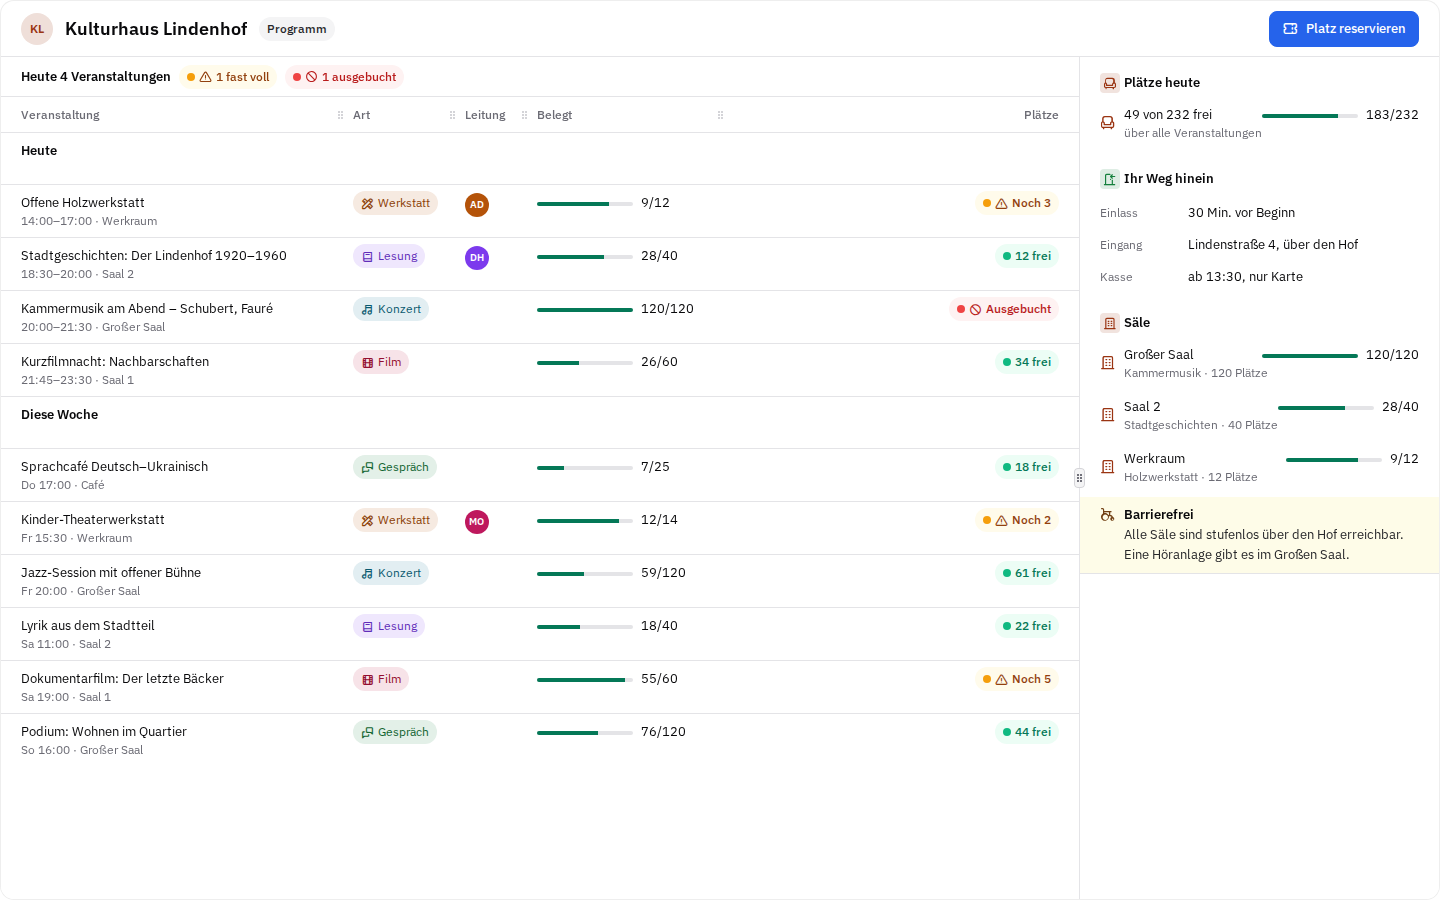
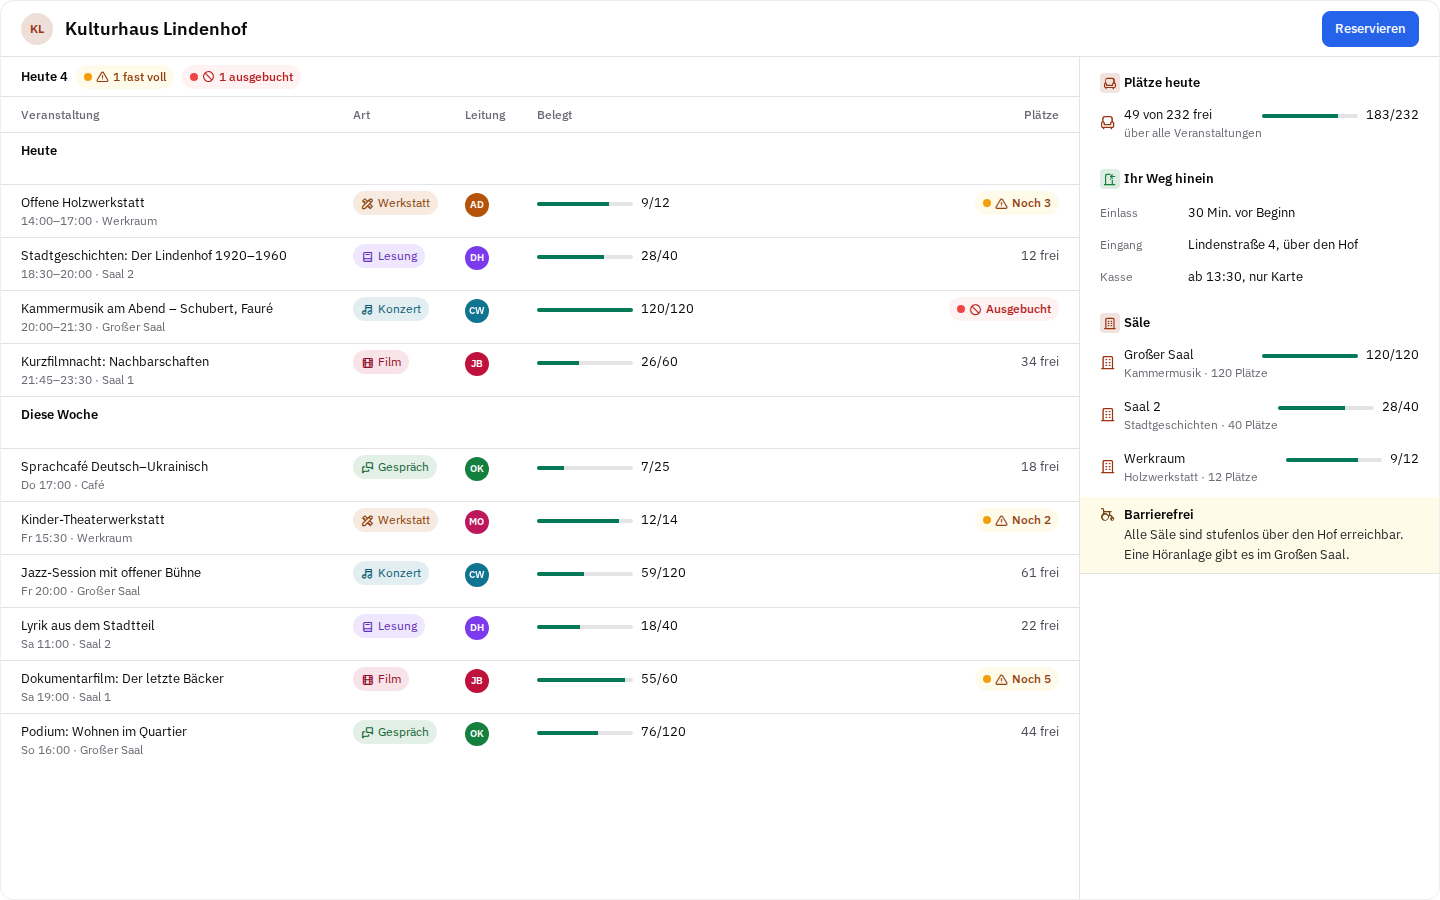
feat(ui): a page to read keeps fixed columns without grips, and the public page recipe marks every row and chips only exceptions
Width gains fixed: a Pane or a table column keeps its default width without a
grip. The phone form of a table heads its groups with plain words instead of a
tinted band. The public page recipe gives every event its host (every phone row
leads with a mark), shows seats as a chip only when booked out or almost full,
keeps the brand and its task in one phone row, and fills the kiosk side column
with what comes next.

diff --git a/packages/ui/skills/k2b-ui/recipes/public-page.tsx b/packages/ui/skills/k2b-ui/recipes/public-page.tsx
@@ -23,7 +23,7 @@ import {
   Text,
   Workspace,
 } from "@k2b/ui/v2";
-import { Show } from "solid-js";
+import { For, Show } from "solid-js";
 
 const brand = { name: "Kulturhaus Lindenhof", color: "#9a3412" };
 const kinds = {
@@ -35,7 +35,7 @@ const kinds = {
 } as const;
 type Kind = keyof typeof kinds;
 type Seats = { free: number; of: number };
-type Event = { title: string; kind: Kind; time: string; room: string; seats: Seats; host?: { name: string; color: string } };
+type Event = { title: string; kind: Kind; time: string; room: string; seats: Seats; host: { name: string; color: string } };
 
 const today: Event[] = [
   {
@@ -60,11 +60,26 @@ const today: Event[] = [
     time: "20:00–21:30",
     room: "Großer Saal",
     seats: { free: 0, of: 120 },
+    host: { name: "Clara Weiß", color: "#0e7490" },
   },
-  { title: "Kurzfilmnacht: Nachbarschaften", kind: "film", time: "21:45–23:30", room: "Saal 1", seats: { free: 34, of: 60 } },
+  {
+    title: "Kurzfilmnacht: Nachbarschaften",
+    kind: "film",
+    time: "21:45–23:30",
+    room: "Saal 1",
+    seats: { free: 34, of: 60 },
+    host: { name: "Jonas Becker", color: "#be123c" },
+  },
 ];
 const week: Event[] = [
-  { title: "Sprachcafé Deutsch–Ukrainisch", kind: "talk", time: "Do 17:00", room: "Café", seats: { free: 18, of: 25 } },
+  {
+    title: "Sprachcafé Deutsch–Ukrainisch",
+    kind: "talk",
+    time: "Do 17:00",
+    room: "Café",
+    seats: { free: 18, of: 25 },
+    host: { name: "Olena Koval", color: "#15803d" },
+  },
   {
     title: "Kinder-Theaterwerkstatt",
     kind: "workshop",
@@ -73,15 +88,49 @@ const week: Event[] = [
     seats: { free: 2, of: 14 },
     host: { name: "Mara Okafor", color: "#be185d" },
   },
-  { title: "Jazz-Session mit offener Bühne", kind: "concert", time: "Fr 20:00", room: "Großer Saal", seats: { free: 61, of: 120 } },
-  { title: "Lyrik aus dem Stadtteil", kind: "reading", time: "Sa 11:00", room: "Saal 2", seats: { free: 22, of: 40 } },
-  { title: "Dokumentarfilm: Der letzte Bäcker", kind: "film", time: "Sa 19:00", room: "Saal 1", seats: { free: 5, of: 60 } },
-  { title: "Podium: Wohnen im Quartier", kind: "talk", time: "So 16:00", room: "Großer Saal", seats: { free: 44, of: 120 } },
+  {
+    title: "Jazz-Session mit offener Bühne",
+    kind: "concert",
+    time: "Fr 20:00",
+    room: "Großer Saal",
+    seats: { free: 61, of: 120 },
+    host: { name: "Clara Weiß", color: "#0e7490" },
+  },
+  {
+    title: "Lyrik aus dem Stadtteil",
+    kind: "reading",
+    time: "Sa 11:00",
+    room: "Saal 2",
+    seats: { free: 22, of: 40 },
+    host: { name: "Dr. Henrike Vogt", color: "#7c3aed" },
+  },
+  {
+    title: "Dokumentarfilm: Der letzte Bäcker",
+    kind: "film",
+    time: "Sa 19:00",
+    room: "Saal 1",
+    seats: { free: 5, of: 60 },
+    host: { name: "Jonas Becker", color: "#be123c" },
+  },
+  {
+    title: "Podium: Wohnen im Quartier",
+    kind: "talk",
+    time: "So 16:00",
+    room: "Großer Saal",
+    seats: { free: 44, of: 120 },
+    host: { name: "Olena Koval", color: "#15803d" },
+  },
 ];
+
+/** What the wall screen shows after what runs now. */
+const next = [...today.slice(1), ...week.slice(0, 2)];
 
 const few = (seats: Seats) => seats.free > 0 && seats.free <= Math.max(3, seats.of / 10);
 
-/** The state of the seats in colour, sign and word; never a colour alone. */
+/**
+ * The seats: a chip in colour, sign and word only for what asks to act (booked out, almost full); the usual case is
+ * quiet text, so the two exceptions stand out.
+ */
 const seatsChip = (seats: Seats) =>
   seats.free === 0 ? (
     <Chip status="bad" icon="ban">
@@ -90,7 +139,7 @@ const seatsChip = (seats: Seats) =>
   ) : few(seats) ? (
     <Chip status="warn" icon="alert-triangle">{`Noch ${seats.free}`}</Chip>
   ) : (
-    <Chip status="ok">{`${seats.free} frei`}</Chip>
+    <Text muted>{`${seats.free} frei`}</Text>
   );
 
 type Listed = Event & { day: "Heute" | "Diese Woche"; key: string };
@@ -115,12 +164,12 @@ const programme = (events: Listed[]) => (
     columns={[
       {
         title: "Veranstaltung",
-        width: { min: 240, default: 340 },
+        width: { min: 240, default: 340, fixed: true },
         cell: (event) => ({ lines: [event.title, `${event.time} · ${event.room}`] }),
       },
       {
         title: "Art",
-        width: { min: 100, default: 112 },
+        width: { min: 100, default: 112, fixed: true },
         drop: true,
         cell: (event) => (
           <Chip tag color={kinds[event.kind].color} icon={kinds[event.kind].icon}>
@@ -130,19 +179,18 @@ const programme = (events: Listed[]) => (
       },
       {
         title: "Leitung",
-        width: { min: 64, default: 72 },
+        width: { min: 64, default: 72, fixed: true },
         drop: true,
-        cell: (event) => (event.host ? <Avatar name={event.host.name} color={event.host.color} /> : ""),
+        cell: (event) => <Avatar name={event.host.name} color={event.host.color} />,
       },
       {
         title: "Belegt",
-        width: { min: 172, default: 196 },
+        width: { min: 172, default: 196, fixed: true },
         drop: true,
         cell: (event) => <Progress value={taken(event.seats)} of={event.seats.of} label={`${taken(event.seats)}/${event.seats.of}`} />,
       },
       { title: "Plätze", align: "end", cell: (event) => seatsChip(event.seats) },
     ]}
-    // k2b-ui gap: a phone row of a table lets a long title take a second line; the look asks for one line with "…".
     phone={(event) => ({
       lines: [event.title, `${event.time} · ${event.room} · ${kinds[event.kind].label}`],
       avatar: event.host,
@@ -163,13 +211,14 @@ export default function VenueProgramme(props: Props) {
     <Workspace
       head={
         <Bar
-          start={<RecordHead name={brand.name} avatar={{ name: brand.name, initials: "KL", color: brand.color }} kinds={["Programm"]} />}
+          start={<RecordHead name={brand.name} avatar={{ name: brand.name, initials: "KL", color: brand.color }} />}
           end={
             props.kiosk ? (
               <Text type="meta">Mittwoch, 26. November · aktualisiert sich jede Minute</Text>
             ) : (
-              <Button variant="primary" icon="ticket" href="#reservieren" keep>
-                Platz reservieren
+              // words only: with the brand it stays one row on a phone
+              <Button variant="primary" href="#reservieren" keep>
+                Reservieren
               </Button>
             )
           }
@@ -183,9 +232,7 @@ export default function VenueProgramme(props: Props) {
             <Bar
               start={
                 <Inline>
-                  <Text weight="strong">
-                    {props.kiosk ? "Jetzt: Offene Holzwerkstatt · Werkraum" : `Heute ${events().length} Veranstaltungen`}
-                  </Text>
+                  <Text weight="strong">{props.kiosk ? "Jetzt: Offene Holzwerkstatt · Werkraum" : `Heute ${events().length}`}</Text>
                   <Show when={almost() > 0}>
                     <Chip status="warn" icon="alert-triangle">{`${almost()} fast voll`}</Chip>
                   </Show>
@@ -209,7 +256,7 @@ export default function VenueProgramme(props: Props) {
             {programme([...listed(events(), "Heute"), ...listed(week, "Diese Woche")])}
           </Show>
         </Pane>
-        <Pane side label="Ihr Besuch" width={{ min: 280, default: 360 }}>
+        <Pane side label="Ihr Besuch" width={{ min: 280, default: 360, fixed: true }}>
           <Section icon="armchair" color={brand.color} title="Plätze heute">
             <Row
               icon="armchair"
@@ -247,6 +294,13 @@ export default function VenueProgramme(props: Props) {
               end={<Progress value={9} of={12} label="9/12" />}
             />
           </Section>
+          <Show when={props.kiosk}>
+            <Section icon="clock" color={brand.color} title="Als Nächstes">
+              <For each={next}>
+                {(event) => <Row avatar={event.host} lines={[event.title, `${event.time} · ${event.room}`]} end={seatsChip(event.seats)} />}
+              </For>
+            </Section>
+          </Show>
           <Show when={!props.kiosk}>
             <Notice tone="note" icon="wheelchair" title="Barrierefrei">
               Alle Säle sind stufenlos über den Hof erreichbar. Eine Höranlage gibt es im Großen Saal.

diff --git a/packages/ui/src/v2/content.tsx b/packages/ui/src/v2/content.tsx
@@ -20,7 +20,7 @@ import { linkOr } from "./link";
 import { Avatar, custom, Dot, Icon } from "./marks";
 import { Empty, type EmptyProps, Loading, LoadingStatus } from "./states";
 import type { TypeRole } from "./tokens";
-import type { Action, OnNavigate, Person, Status } from "./types";
+import type { Action, OnNavigate, Person, Status, Width } from "./types";
 
 // ── Text ─────────────────────────────────────────────────────────────────────────────────────────────────────────
 
@@ -454,10 +454,10 @@ export type Column<T> = {
   /** Numbers and amounts stand at the end. */
   align?: "start" | "end";
   /**
-   * A column that can be dragged wider or narrower: its minimum and default in px. The column is exactly its
-   * default wide; cut text never widens it.
+   * A column that can be dragged wider or narrower: its minimum and default in px (`fixed`: its default, no grip). The
+   * column is exactly its default wide; cut text never widens it.
    */
-  width?: { min: number; default: number };
+  width?: Width;
   /** A text column that may wrap to at most three lines; the row grows, every other cell stays on its first line. */
   wrap?: boolean;
   /** Drops away on the phone (rule 7: columns drop, they do not shrink). */
@@ -689,7 +689,7 @@ export const Table = <T,>(props: TableProps<T>) => {
                     style={firstSticky(index()) ? custom({ "--k2-sticky-left": stickyLeft() }) : undefined}
                     aria-sort={props.sort?.column === index() ? props.sort.direction : undefined}
                   >
-                    <Show when={index() > 0 && props.columns[index() - 1]?.width}>
+                    <Show when={index() > 0 && props.columns[index() - 1]?.width && !props.columns[index() - 1]!.width!.fixed}>
                       <span
                         class="k2-cgrip"
                         role="separator"

diff --git a/packages/ui/src/v2/server-markup.test.ts b/packages/ui/src/v2/server-markup.test.ts
@@ -73,3 +73,35 @@ test("a text field sends autocomplete, length, keyboard, spelling and capitals i
     /autocomplete|maxlength|inputmode|spellcheck|autocapitalize/,
   );
 });
+
+// A page to read, not to arrange (a visitor page, a wall screen): a fixed width keeps the column, without a grip.
+test("a fixed width keeps a column and a table column without a grip", async () => {
+  const { Table } = await import("./content");
+  const fixed = { min: 280, default: 360, fixed: true };
+  const panes = renderToString(() =>
+    createComponent(Pane.Split, {
+      get children() {
+        return [
+          createComponent(Pane, { label: "Liste", children: "Liste" }),
+          createComponent(Pane, { side: true, label: "Seite", width: fixed, children: "Seite" }),
+        ];
+      },
+    }),
+  );
+  expect(panes).toContain('class="k2-seam"');
+  expect(panes).not.toContain("data-k2-grip");
+  const table = (width: typeof fixed) =>
+    renderToString(() =>
+      createComponent(Table<{ name: string }>, {
+        label: "Programm",
+        rows: [{ name: "Lesung" }],
+        columns: [
+          { title: "Name", width, cell: (row: { name: string }) => row.name },
+          { title: "Ort", cell: () => "Saal 2" },
+        ],
+      }),
+    );
+  expect(table(fixed)).not.toContain("k2-cgrip");
+  expect(table({ ...fixed, fixed: false })).toContain("k2-cgrip");
+  expect(table(fixed)).toContain("width:360px");
+});

diff --git a/packages/ui/src/v2/layout.tsx b/packages/ui/src/v2/layout.tsx
@@ -337,7 +337,7 @@ export type PaneProps = {
    * the state of an open entry, such as "3 Nachrichten · Wartet auf Antwort · Tag" above a reader.
    */
   status?: JSX.Element;
-  /** A column that can be dragged wider: its minimum and default width. Only inside `Pane.Split`. */
+  /** A column that can be dragged wider: its minimum and default width (`fixed`: its width, no grip). Only inside `Pane.Split`. */
   width?: Width;
   /** The name of the column and of its grip, such as "List". */
   label?: string;
@@ -494,7 +494,7 @@ const SplitBody = (props: { entries: readonly SplitEntry[]; empty: { icon: strin
     const right = entryOf(index + 1) ?? (props.empty && index === panes().length - 1 ? {} : undefined);
     if (!right) return undefined;
     const moving = right.width ? right : left?.width ? left : undefined;
-    return moving?.width ? { label: moving.label ?? "Column", width: moving.width } : undefined;
+    return moving?.width && !moving.width.fixed ? { label: moving.label ?? "Column", width: moving.width } : undefined;
   };
   return (
     <div class="k2-split" data-k2-part="Pane.Split">

diff --git a/packages/ui/src/v2/types.ts b/packages/ui/src/v2/types.ts
@@ -9,8 +9,11 @@ import type { LinkNavigateEvent } from "@k2b/ssr/nav";
  */
 export type OnNavigate = (event: LinkNavigateEvent) => void | Promise<void>;
 
-/** The width of a column that can be dragged: its minimum and its default, in CSS px. Nothing else. */
-export type Width = { min: number; default: number };
+/**
+ * The width of a column: its minimum and its default, in CSS px. It can be dragged; `fixed` keeps it at its default
+ * without a grip, for a page to read rather than to arrange (a visitor page, a wall screen).
+ */
+export type Width = { min: number; default: number; fixed?: boolean };
 
 /**
  * An action as data. The primitive decides whether it becomes a button, an icon button or a text button, so the

diff --git a/packages/ui/src/v2/v2.css b/packages/ui/src/v2/v2.css
@@ -1465,12 +1465,12 @@
 .k2-ui .k2-table[data-grid] td .k2-mark {
   vertical-align: middle;
 }
-/* the phone form of a large table: rows of two lines, groups as tinted bars; the table itself leaves */
+/* the phone form of a large table: rows of two lines, a group head as plain words with its count (spacing groups,
+   no tinted band); the table itself leaves */
 .k2-ui .k2-table-phone {
   display: none;
 }
 .k2-ui .k2-table-phone .k2-bar {
-  background: var(--k2-n50);
   height: var(--k2-h-columns);
 }
 /* a person leads a row of the phone form as a small mark, like in the cell */

diff --git a/packages/ui/skills/k2b-ui/references/recipes.md b/packages/ui/skills/k2b-ui/references/recipes.md
@@ -252,20 +252,25 @@ empty (`Empty` with "Text schreiben"), loading (`Loading` rows) and failed
 A page that people open without signing in, without the Cloud shell (a
 venue's programme, a public form, a share). In Cloud it stands in
 `MinimalLayout ui="v2"`. A head `Bar` with the brand as `RecordHead` (its
-initials on its colour) and the one task as the primary with `keep`, so it
-stays in the head on the phone and nothing floats over a row; the status row
-as one statement with toned chips ("1 fast voll", "1 ausgebucht"), never the
-figures a column repeats. The programme is one `Table` grouped by day: the
-event with when and where, its type as a `Chip tag` in its colour, the host
-as `Avatar`, the seats taken as `Progress` (a value with a limit gets a
-meter), and the state as a `Chip` with colour, sign and word; on the phone
-each event is a row of two lines with its state. A `Pane side` holds the
+initials on its colour) and the one task as the primary with `keep` and short
+words, so on a phone the brand and the task share one row and nothing floats
+over a row; the status row as one statement with toned chips ("1 fast voll",
+"1 ausgebucht"), never the figures a column repeats. The programme is one
+`Table` grouped by day: the event with when and where, its type as a
+`Chip tag` in its colour, its host as `Avatar` (every event has one, so every
+phone row leads with a mark and the text edge never jumps), the seats taken
+as `Progress` (a value with a limit gets a meter), and the seats: a `Chip`
+with colour, sign and word only for the exceptions (booked out, almost full),
+quiet words for the rest. A page to read has no grips: its columns and its
+side column keep a `fixed` width. On the phone each event is a row of two lines
+with its seats, and a day is a plain group head. A `Pane side` holds the
 visit: free places as a meter, the way in as `Facts`, the rooms with their
 load, and access as a `Notice`. `states` exports kiosk (the same page on a
-wall screen: no task, what runs now first, "aktualisiert sich jede Minute" in
-the head), empty and failed.
+wall screen: no task, what runs now first, what comes next in the side
+column, "aktualisiert sich jede Minute" in the head), empty and failed.
 
 - A visitor page has no rail and no sidebar: the brand stands in the head.
 - A kiosk refreshes itself and says so in words, never with a button.
 - Gaps: the brand mark (`Mark`) and a larger kiosk type come with the
-  identity primitives; a phone row of a table may still wrap a long title.
+  identity primitives; a phone row of a table may still wrap a long title; a
+  longer brand name or task still gives the phone head a second row.

diff --git a/packages/ui/skills/k2b-ui/references/primitives.md b/packages/ui/skills/k2b-ui/references/primitives.md
@@ -47,7 +47,8 @@ A column that scrolls, with no padding: everything in it reaches both edges.
   the column scrolls: a `StatusRow` of 52 px above a list, or a `Bar` of 40 px
   with the state of an open entry above a reader), `label`.
 - `width={{ min, default }}`: only inside `Pane.Split`; puts a grip on its
-  line.
+  line. `fixed: true` keeps the default width without a grip, for a page to
+  read rather than to arrange (a visitor page, a wall screen).
 - `detail`: the reader beside a list. What is open belongs in the address:
   render the detail only while the address names an entry. On the phone
   the detail is the page, and the title in its head is never cut: beside the
@@ -181,7 +182,7 @@ the number as `meta`, the state chip in `end`, the deed as `action`.
 `columns: Column<T>[]`, `rows: T[]`, `label`. A column: `title`, `cell(row)`
 returning one value or `{ lines: [line, quietLine] }`, `align: "end"` for
 numbers and amounts, `width={{ min, default }}` (exactly that wide, cut text
-never widens it, grip in the head), `wrap` (one text column may take 3
+never widens it, grip in the head; `fixed: true` without the grip), `wrap` (one text column may take 3
 lines), `drop` (leaves on the phone), `sort` (its head is pressed to sort:
 `{ href }` to the page sorted so, with `onNavigate` to open it in place, or
 `{ onSort }` for a deed). The phone rows have no heads: a sort given by
@@ -194,7 +195,7 @@ A large table (Grids, a work list) adds, all optional: `rowKey(row)` (needed
 for the next three), `select: { selected, onChange, all, row }` (a box
 column; pair it with `StatusRow selection`), `current` (the open row's key,
 tinted), `sticky` (first column stays while scrolling sideways), `group(row)
-=> { key, head: () => JSX, meta?, count? }` (tinted group rows), `sort: { column,
+=> { key, head: () => JSX, meta?, count? }` (tinted group rows; on the phone a plain group head), `sort: { column,
 direction }` (the column sorted now: an arrow and darker words in its head,
 `aria-sort` on it), `phone(row) => { lines, avatar?, time?, marks?
 }` (on the phone each row becomes a two-line row instead: `time` top right,
